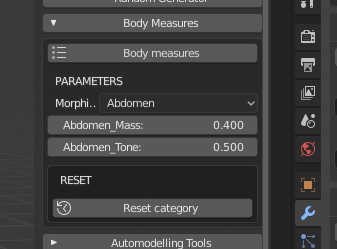
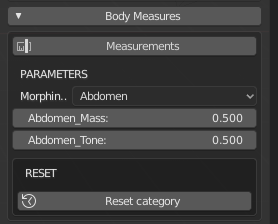
Documentation updates

diff --git a/__init__.py b/__init__.py
@@ -2128,7 +2128,7 @@ class VIEW3D_PT_tools_ManuelbastioniLAB(bpy.types.Panel):
                     box = self.layout.box()
                     mblab_humanoid.bodydata_realtime_activated = True
                     if mblab_humanoid.exists_measure_database():
-                        box.prop(scn, 'mblab_show_measures', icon='PRESET')
+                        box.prop(scn, 'mblab_show_measures', icon='SNAP_INCREMENT')
                     split = box.split()
 
                     col = split.column()

diff --git a/docs/creation_tools.rst b/docs/creation_tools.rst
@@ -142,7 +142,7 @@ Depending on the category selected, the panel will show some sliders to increase
 
 .. image:: images/bodymeasures_01.png
 
-The measures editor is enabled selecting the "Body measures" option.
+The measures editor is enabled selecting the "Measurements" option.
 
 .. image:: images/bodymeasures_02.png
 
